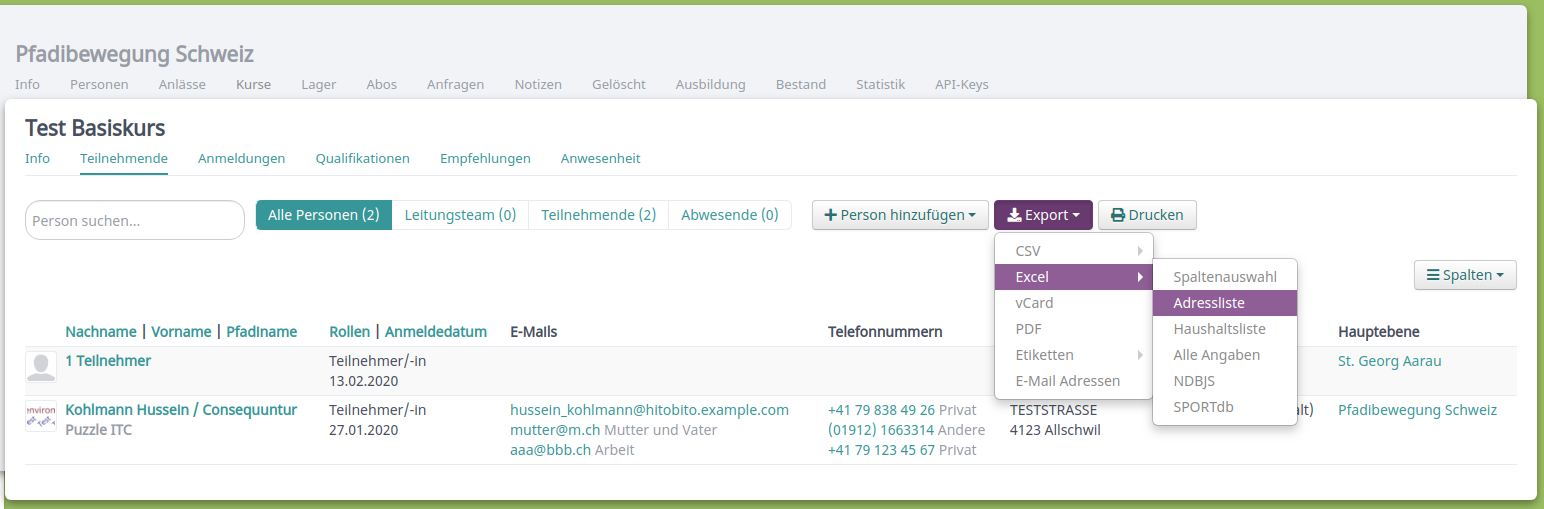
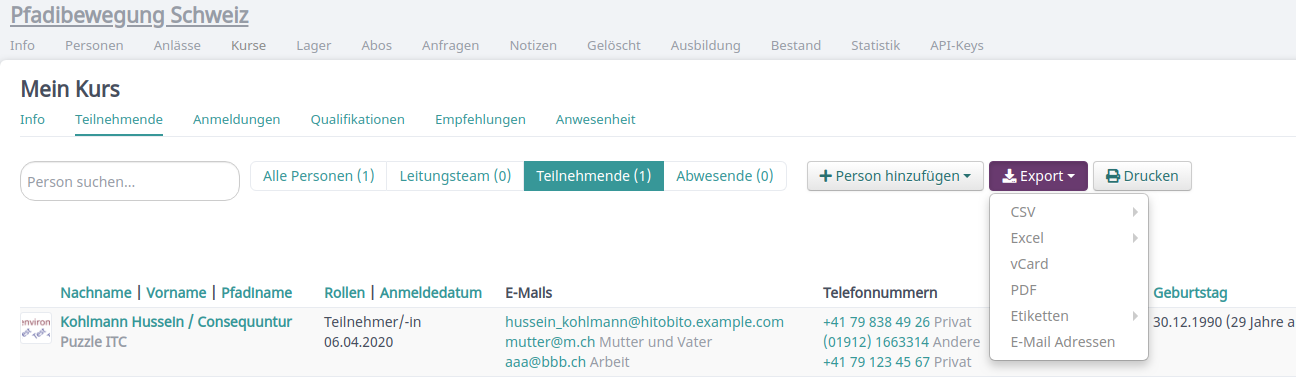
small renamings

diff --git a/app/Services/Import/Participants/MiData/MiDataParticipantListParser.php b/app/Services/Import/Participants/MiData/MiDataParticipantListParser.php
@@ -111,12 +111,22 @@ class MiDataParticipantListParser implements ParticipantListParser {
      * @return array containing the extracted data
      */
     protected function parseName(PhpSpreadsheet\Cell\Cell $cell, Row $row) {
-        $newName = "";
+        $newName="";
+        $firstName="";
+        $lastName="";
         if(empty($cell->getValue())){
             $newCells = Collection::make($row->getCellIterator(self::$COL_WITH_FIRST_NAME, self::$COL_WITH_LAST_NAME));
-            $firstName = $newCells[self::$COL_WITH_FIRST_NAME]->getValue();
-            $lastName = $newCells[self::$COL_WITH_LAST_NAME]->getValue();
-            $newName =$firstName." ".$lastName;
+            if(!empty(self::$COL_WITH_FIRST_NAME)){
+                $firstName = $newCells[self::$COL_WITH_FIRST_NAME]->getValue();
+            }
+            if(!empty(self::$COL_WITH_LAST_NAME)) {
+                $lastName = $newCells[self::$COL_WITH_LAST_NAME]->getValue();
+            }
+            if(empty($firstName)){
+                $newName = $lastName;
+            } elseif (empty($lastName)){
+                $newName = $firstName;
+            } else $newName =$firstName." ".$lastName;
         } else $newName=  $cell->getValue();
         return [
           'scout_name' => $newName

diff --git a/resources/lang/de/t.php b/resources/lang/de/t.php
@@ -204,10 +204,10 @@ return array(
 			),
             "participant_import" => array(
                 "MiData" => array(
-                    "participant_list" => "Adressliste",
+                    "participant_list" => "Teilnehmer",
                     "how_to_get_the_participant_list" => array(
-                        "answer" => "Wenn die Teilnehmenden in deinem Kurs auf :MiData erfasst sind, gehe dort auf deinen Kurs und in der Navigation zu \"Teilnehmende\". Danach kannst du die Adressliste der Teilnehmenden oben rechts als Excel-Datei herunterladen.",
-                        "question" => "Woher bekomme ich die Adressliste?",
+                        "answer" => "Wenn die Teilnehmenden in deinem Kurs auf :MiData erfasst sind, gehe dort auf deinen Kurs und in der Navigation zu \"Teilnehmende\". Danach kannst du oben rechts die Liste der Teilnehmenden als Excel-Datei herunterladen. Andernfalls kannst du die Liste auch manuell erstellen mit den Spaltenbezeichnungen: \"Pfadiname\" und \"Hauptebene\"",
+                        "question" => "Woher bekomme ich die Teilnehmerliste?",
                     ),
                     "name" => "MiData",
                     "column_names" => array(

diff --git a/resources/views/admin/participants/import.blade.php b/resources/views/admin/participants/import.blade.php
@@ -18,6 +18,7 @@
 
                 @endcomponent
 
+
             @endcomponent
 
         @endcomponent
